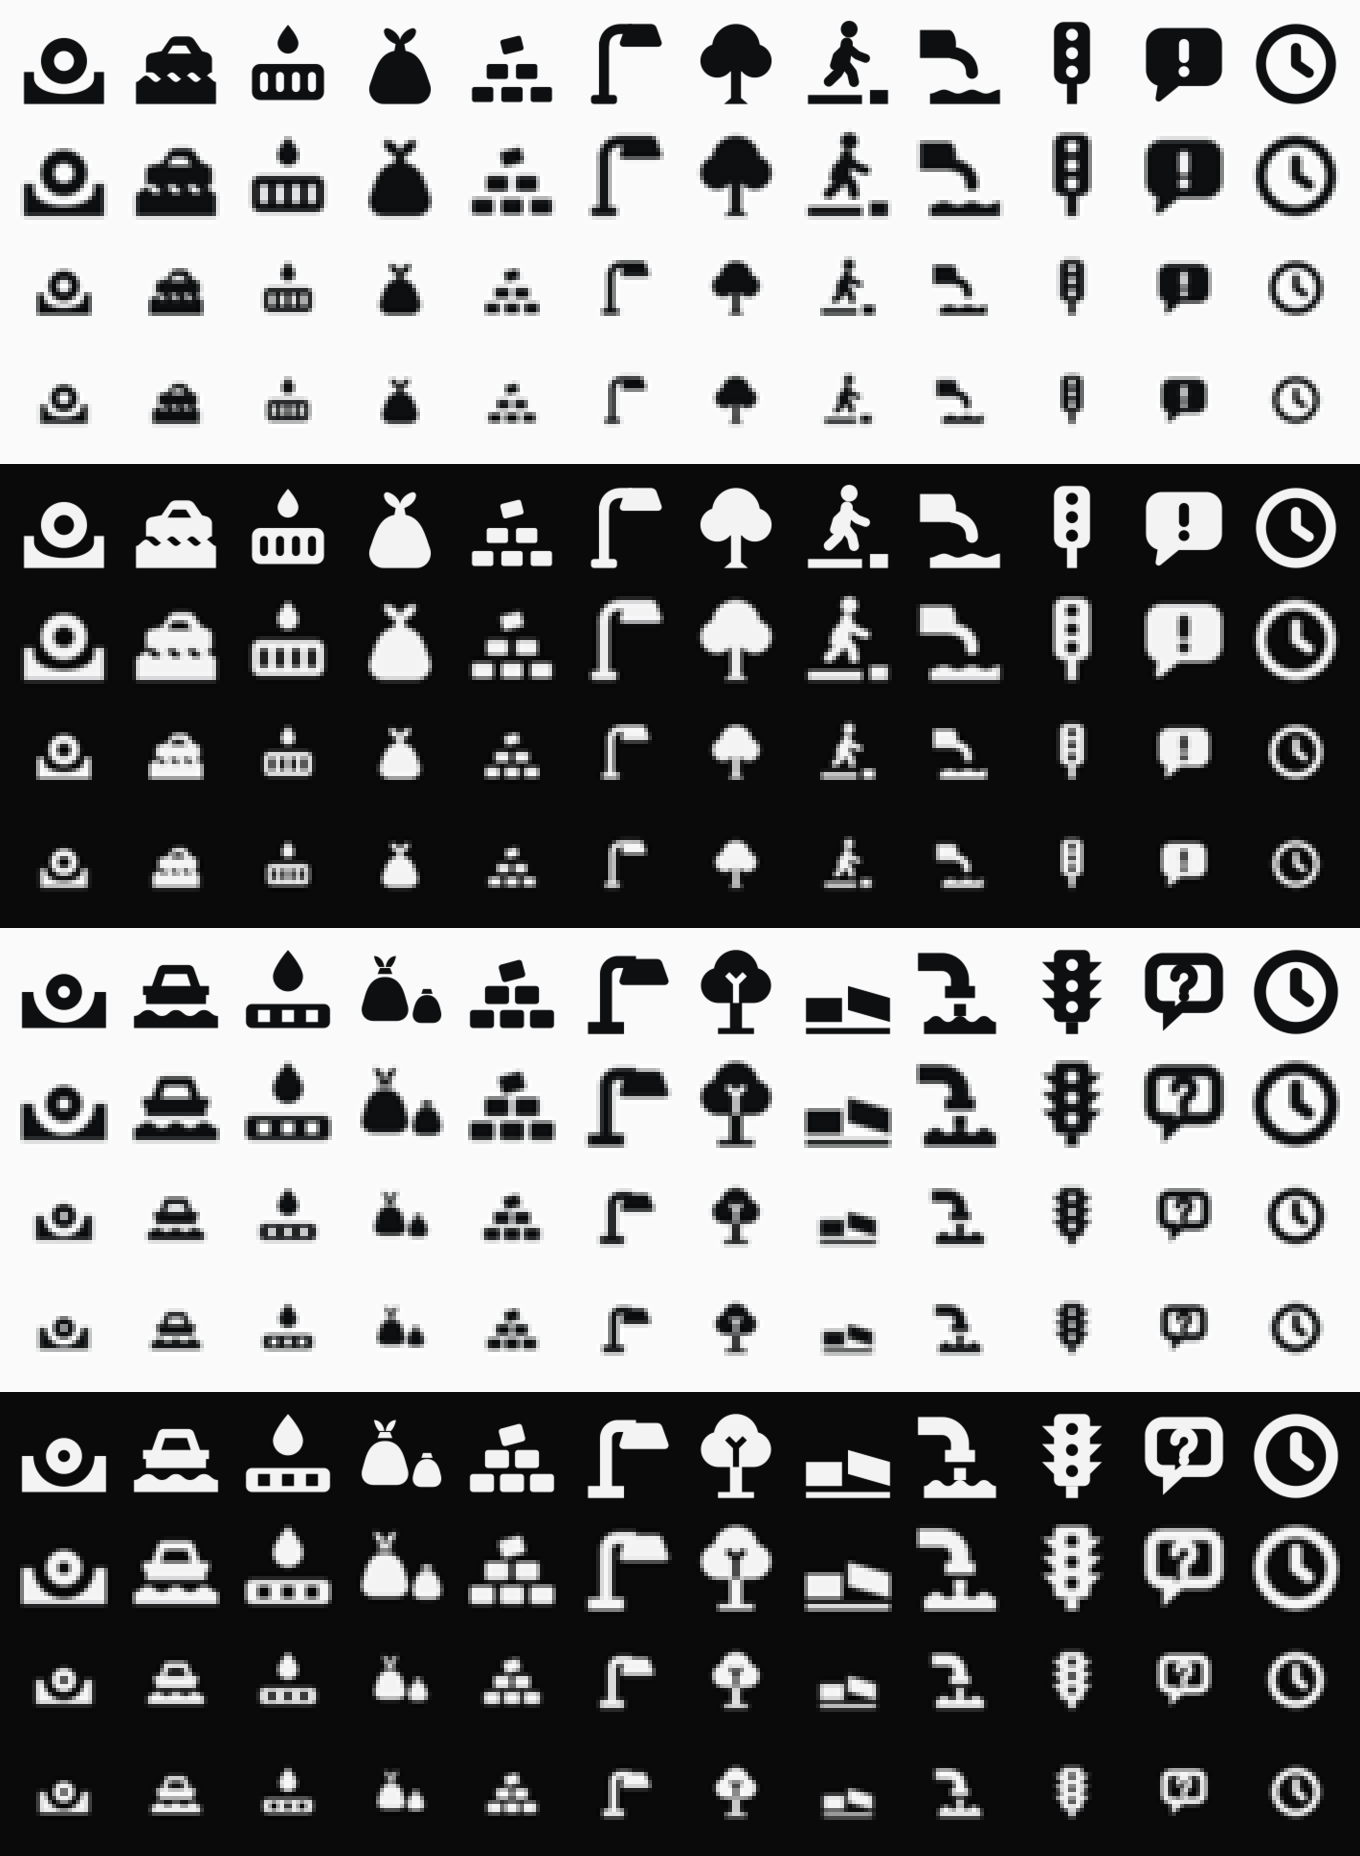
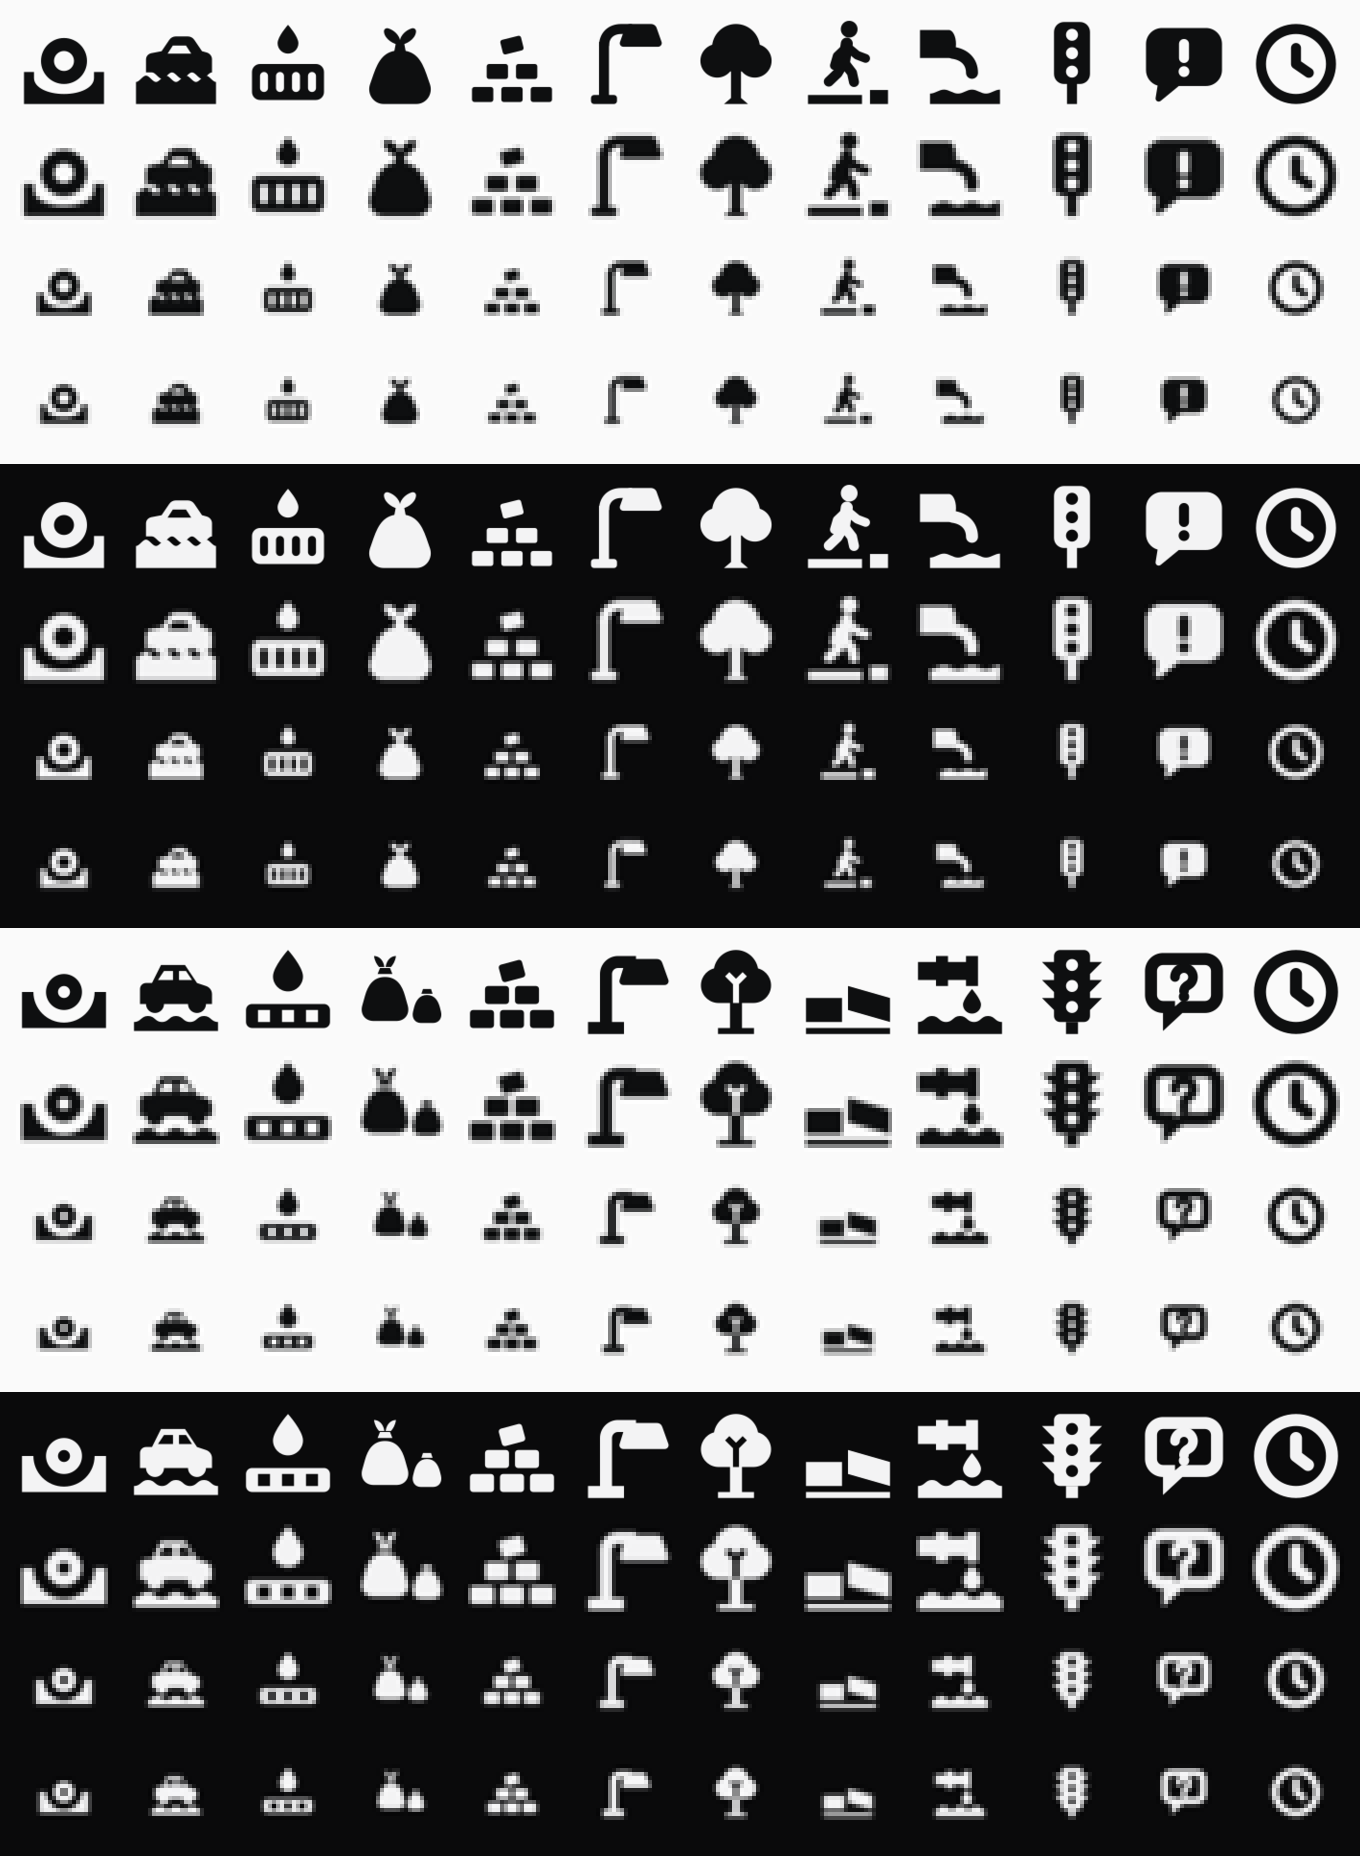
fix(web): the flooded street and the sewage pictograms, redrawn side on
The founder found both jangled:
- Alaga is now a car side on, water up to its wheels. It reads by its
  profile, windows and wheels; the front view read as a boat or a bus stop.
- Esgoto is now a pipe with its couplings dripping into a pool. A pouring
  stream always made an arrow; drops read as water.

The set's weight spread stays at 1.34x; the PDF's copy follows.

Changed region(s): [[0.6794, 0.5, 0.7412, 1.0], [0.0926, 0.5, 0.1544, 1.0]]

diff --git a/apps/web/src/components/Icons.tsx b/apps/web/src/components/Icons.tsx
@@ -16,14 +16,14 @@
  */
 
 const SYMBOLS = `<symbol id="c-buraco" viewBox="0 0 24 24"><path d="M1.5 12h2.85a7.65 7.65 0 0 0 15.3 0H22.5v9h-21z"/><path fill-rule="evenodd" d="M12 7.5a4.5 4.5 0 1 1 0 9 4.5 4.5 0 0 1 0-9zm0 3a1.5 1.5 0 1 0 0 3 1.5 1.5 0 0 0 0-3z"/></symbol>
-<symbol id="c-alaga" viewBox="0 0 24 24"><path fill-rule="evenodd" d="M8.9 5.25h6.2c.65 0 1.2.4 1.4 1L18 10.5h2.25v2.25H19.5V15h-15v-2.25h-.75V10.5H6l1.5-4.25c.2-.6.75-1 1.4-1zm.35 2.25l-.95 3h7.4l-.95-3z"/><path d="M1.5 18c1.75 0 1.75-1.5 3.5-1.5s1.75 1.5 3.5 1.5 1.75-1.5 3.5-1.5 1.75 1.5 3.5 1.5 1.75-1.5 3.5-1.5 1.75 1.5 3.5 1.5v3h-21z"/></symbol>
+<symbol id="c-alaga" viewBox="0 0 24 24"><path fill-rule="evenodd" d="M8.25 5.25h6l3 4.5 2.25.75c.9.3 1.5 1.1 1.5 2.05V15h-1.5a2.25 2.25 0 0 1-4.5 0H9a2.25 2.25 0 0 1-4.5 0H3v-3.75c0-.85.7-1.5 1.5-1.5H6zm.75 1.5-1.5 2.25h3.75V6.75zm3.75 0V9h3.25l-1.5-2.25z"/><path d="M1.5 19.5c1.75 0 1.75-1.5 3.5-1.5s1.75 1.5 3.5 1.5 1.75-1.5 3.5-1.5 1.75 1.5 3.5 1.5 1.75-1.5 3.5-1.5 1.75 1.5 3.5 1.5v2.25h-21z"/></symbol>
 <symbol id="c-bocalobo" viewBox="0 0 24 24"><path d="M12 1.5s-3.75 4.2-3.75 6.6a3.75 3.75 0 0 0 7.5 0C15.75 5.7 12 1.5 12 1.5z"/><path fill-rule="evenodd" d="M3 15h18a1.5 1.5 0 0 1 1.5 1.5v3A1.5 1.5 0 0 1 21 21H3a1.5 1.5 0 0 1-1.5-1.5v-3A1.5 1.5 0 0 1 3 15zM4.5 16.5v3h3v-3zm6 0v3h3v-3zm6 0v3h3v-3z"/></symbol>
 <symbol id="c-lixo" viewBox="0 0 24 24"><path d="M8.25 8.25c3 0 4.3 2.2 5 4.7l.7 2.5c.55 2.1-.75 3.8-2.85 3.8H5.4c-2.1 0-3.4-1.7-2.85-3.8l.7-2.5c.7-2.5 2-4.7 5-4.7z"/><path d="M7 6h2.5l.6 1.5H6.4z"/><path d="M5.5 3c1.1 0 2.3.8 2.6 2.75H6.75C6.25 5.15 5.7 4.35 5.5 3zM11 3c-1.1 0-2.3.8-2.6 2.75h1.35c.5-.6 1.05-1.4 1.25-2.75z"/><path d="M18.75 12.75c1.9 0 2.75 1.4 3.2 3l.3 1.2c.35 1.5-.45 2.8-2 2.8H17.25c-1.55 0-2.35-1.3-2-2.8l.3-1.2c.45-1.6 1.3-3 3.2-3z"/><path d="M17.75 11.25h2l.4 1.2h-2.8z"/></symbol>
 <symbol id="c-entulho" viewBox="0 0 24 24"><rect x="1.5" y="16.5" width="6" height="4.5" rx=".75"/><rect x="9" y="16.5" width="6" height="4.5" rx=".75"/><rect x="16.5" y="16.5" width="6" height="4.5" rx=".75"/><rect x="5.25" y="10.5" width="6" height="4.5" rx=".75"/><rect x="12.75" y="10.5" width="6" height="4.5" rx=".75"/><rect x="9" y="4.5" width="6" height="4.5" rx=".75" transform="rotate(-15 12 6.75)"/></symbol>
 <symbol id="c-poste" viewBox="0 0 24 24"><path d="M6 21V7.5A4.5 4.5 0 0 1 10.5 3H15v3h-4.5A1.5 1.5 0 0 0 9 7.5V21z"/><path d="M3 19.5h9v3H3z"/><path d="M13.6 3.75h6.6c.7 0 1.2.4 1.4 1.05l1.5 4.2c.2.6-.25 1.25-.9 1.25H11.8c-.65 0-1.1-.65-.9-1.25l1.3-4.2c.2-.65.75-1.05 1.4-1.05z"/></symbol>
 <symbol id="c-arvore" viewBox="0 0 24 24"><path fill-rule="evenodd" d="M12 1.5a5.6 5.6 0 0 1 5.5 4.6 4.4 4.4 0 0 1-1.25 8.65H13.5V21h3v1.5h-9V21h3v-6.25H7.75A4.4 4.4 0 0 1 6.5 6.1 5.6 5.6 0 0 1 12 1.5zM11.25 10.06v4.69h1.5v-4.69l1.97-1.97-1.06-1.06L12 8.69l-1.66-1.66-1.06 1.06z"/></symbol>
 <symbol id="c-calcada" viewBox="0 0 24 24"><path d="M1.5 13.5h9v6h-9z"/><path d="M12 10.5l10.5 3v6L12 16.5z"/><path d="M1.5 21h21v1.5h-21z"/></symbol>
-<symbol id="c-esgoto" viewBox="0 0 24 24"><path d="M1.5 2.25h6a6.75 6.75 0 0 1 6.75 6.75v1.5h1.5v3H8.25v-3h1.5V9a2.25 2.25 0 0 0-2.25-2.25h-6z"/><path d="M10.5 15h3v3h-3z"/><path d="M3 19.5c1.5 0 1.5-1.5 3-1.5s1.5 1.5 3 1.5 1.5-1.5 3-1.5 1.5 1.5 3 1.5 1.5-1.5 3-1.5 1.5 1.5 3 1.5V22.5H3z"/></symbol>
+<symbol id="c-esgoto" viewBox="0 0 24 24"><path d="M1.5 4.5h4.5V3h3v1.5h4.5V3h3v7.5h-3V9H9v1.5H6V9H1.5z"/><path d="M15 11.25s-2.25 2.55-2.25 3.9a2.25 2.25 0 0 0 4.5 0c0-1.35-2.25-3.9-2.25-3.9z"/><path d="M1.5 19.5c1.75 0 1.75-1.5 3.5-1.5s1.75 1.5 3.5 1.5 1.75-1.5 3.5-1.5 1.75 1.5 3.5 1.5 1.75-1.5 3.5-1.5 1.75 1.5 3.5 1.5v3h-21z"/></symbol>
 <symbol id="c-sinal" viewBox="0 0 24 24"><path fill-rule="evenodd" d="M9 1.5h6A1.5 1.5 0 0 1 16.5 3v1.5h3l-3 3V9h3l-3 3v1.5h3l-3 3V18a1.5 1.5 0 0 1-1.5 1.5H9A1.5 1.5 0 0 1 7.5 18v-1.5l-3-3h3V12l-3-3h3V7.5l-3-3h3V3A1.5 1.5 0 0 1 9 1.5zM12 3.75a1.5 1.5 0 1 0 0 3 1.5 1.5 0 0 0 0-3zm0 5.25a1.5 1.5 0 1 0 0 3 1.5 1.5 0 0 0 0-3zm0 5.25a1.5 1.5 0 1 0 0 3 1.5 1.5 0 0 0 0-3z"/><path d="M10.5 19.5h3v3h-3z"/></symbol>
 <symbol id="c-questao" viewBox="0 0 24 24"><path fill-rule="evenodd" d="M6.75 2.25h10.5a4.5 4.5 0 0 1 4.5 4.5v6a4.5 4.5 0 0 1-4.5 4.5H11.6L6.75 21.75v-4.5a4.5 4.5 0 0 1-4.5-4.5v-6a4.5 4.5 0 0 1 4.5-4.5zm0 3a1.5 1.5 0 0 0-1.5 1.5v6a1.5 1.5 0 0 0 1.5 1.5h3v1.35l1.6-1.35h5.9a1.5 1.5 0 0 0 1.5-1.5v-6a1.5 1.5 0 0 0-1.5-1.5z"/><path d="M9.75 8.25a2.25 2.25 0 1 1 3.4 1.95c-.7.4-1.15.85-1.15 1.55" fill="none" stroke="currentColor" stroke-width="2.4" stroke-linecap="round" stroke-linejoin="round"/><circle cx="12" cy="13.15" r="1.3"/></symbol>
 <symbol id="i-clock" viewBox="0 0 24 24"><g fill="none" stroke="currentColor" stroke-width="3" stroke-linecap="round" stroke-linejoin="round"><circle cx="12" cy="12" r="9"/><path d="M12 7.5V12l3 2.25"/></g></symbol>`;

diff --git a/apps/digest/src/pdf/pictograms.ts b/apps/digest/src/pdf/pictograms.ts
@@ -7,7 +7,7 @@ export const PICTOGRAMS: Record<string, string> = {
   buraco:
     '<svg xmlns="http://www.w3.org/2000/svg" viewBox="0 0 24 24" fill="currentColor"><path d="M1.5 12h2.85a7.65 7.65 0 0 0 15.3 0H22.5v9h-21z"/><path fill-rule="evenodd" d="M12 7.5a4.5 4.5 0 1 1 0 9 4.5 4.5 0 0 1 0-9zm0 3a1.5 1.5 0 1 0 0 3 1.5 1.5 0 0 0 0-3z"/></svg>',
   alaga:
-    '<svg xmlns="http://www.w3.org/2000/svg" viewBox="0 0 24 24" fill="currentColor"><path fill-rule="evenodd" d="M8.9 5.25h6.2c.65 0 1.2.4 1.4 1L18 10.5h2.25v2.25H19.5V15h-15v-2.25h-.75V10.5H6l1.5-4.25c.2-.6.75-1 1.4-1zm.35 2.25l-.95 3h7.4l-.95-3z"/><path d="M1.5 18c1.75 0 1.75-1.5 3.5-1.5s1.75 1.5 3.5 1.5 1.75-1.5 3.5-1.5 1.75 1.5 3.5 1.5 1.75-1.5 3.5-1.5 1.75 1.5 3.5 1.5v3h-21z"/></svg>',
+    '<svg xmlns="http://www.w3.org/2000/svg" viewBox="0 0 24 24" fill="currentColor"><path fill-rule="evenodd" d="M8.25 5.25h6l3 4.5 2.25.75c.9.3 1.5 1.1 1.5 2.05V15h-1.5a2.25 2.25 0 0 1-4.5 0H9a2.25 2.25 0 0 1-4.5 0H3v-3.75c0-.85.7-1.5 1.5-1.5H6zm.75 1.5-1.5 2.25h3.75V6.75zm3.75 0V9h3.25l-1.5-2.25z"/><path d="M1.5 19.5c1.75 0 1.75-1.5 3.5-1.5s1.75 1.5 3.5 1.5 1.75-1.5 3.5-1.5 1.75 1.5 3.5 1.5 1.75-1.5 3.5-1.5 1.75 1.5 3.5 1.5v2.25h-21z"/></svg>',
   bocalobo:
     '<svg xmlns="http://www.w3.org/2000/svg" viewBox="0 0 24 24" fill="currentColor"><path d="M12 1.5s-3.75 4.2-3.75 6.6a3.75 3.75 0 0 0 7.5 0C15.75 5.7 12 1.5 12 1.5z"/><path fill-rule="evenodd" d="M3 15h18a1.5 1.5 0 0 1 1.5 1.5v3A1.5 1.5 0 0 1 21 21H3a1.5 1.5 0 0 1-1.5-1.5v-3A1.5 1.5 0 0 1 3 15zM4.5 16.5v3h3v-3zm6 0v3h3v-3zm6 0v3h3v-3z"/></svg>',
   lixo: '<svg xmlns="http://www.w3.org/2000/svg" viewBox="0 0 24 24" fill="currentColor"><path d="M8.25 8.25c3 0 4.3 2.2 5 4.7l.7 2.5c.55 2.1-.75 3.8-2.85 3.8H5.4c-2.1 0-3.4-1.7-2.85-3.8l.7-2.5c.7-2.5 2-4.7 5-4.7z"/><path d="M7 6h2.5l.6 1.5H6.4z"/><path d="M5.5 3c1.1 0 2.3.8 2.6 2.75H6.75C6.25 5.15 5.7 4.35 5.5 3zM11 3c-1.1 0-2.3.8-2.6 2.75h1.35c.5-.6 1.05-1.4 1.25-2.75z"/><path d="M18.75 12.75c1.9 0 2.75 1.4 3.2 3l.3 1.2c.35 1.5-.45 2.8-2 2.8H17.25c-1.55 0-2.35-1.3-2-2.8l.3-1.2c.45-1.6 1.3-3 3.2-3z"/><path d="M17.75 11.25h2l.4 1.2h-2.8z"/></svg>',
@@ -20,7 +20,7 @@ export const PICTOGRAMS: Record<string, string> = {
   calcada:
     '<svg xmlns="http://www.w3.org/2000/svg" viewBox="0 0 24 24" fill="currentColor"><path d="M1.5 13.5h9v6h-9z"/><path d="M12 10.5l10.5 3v6L12 16.5z"/><path d="M1.5 21h21v1.5h-21z"/></svg>',
   esgoto:
-    '<svg xmlns="http://www.w3.org/2000/svg" viewBox="0 0 24 24" fill="currentColor"><path d="M1.5 2.25h6a6.75 6.75 0 0 1 6.75 6.75v1.5h1.5v3H8.25v-3h1.5V9a2.25 2.25 0 0 0-2.25-2.25h-6z"/><path d="M10.5 15h3v3h-3z"/><path d="M3 19.5c1.5 0 1.5-1.5 3-1.5s1.5 1.5 3 1.5 1.5-1.5 3-1.5 1.5 1.5 3 1.5 1.5-1.5 3-1.5 1.5 1.5 3 1.5V22.5H3z"/></svg>',
+    '<svg xmlns="http://www.w3.org/2000/svg" viewBox="0 0 24 24" fill="currentColor"><path d="M1.5 4.5h4.5V3h3v1.5h4.5V3h3v7.5h-3V9H9v1.5H6V9H1.5z"/><path d="M15 11.25s-2.25 2.55-2.25 3.9a2.25 2.25 0 0 0 4.5 0c0-1.35-2.25-3.9-2.25-3.9z"/><path d="M1.5 19.5c1.75 0 1.75-1.5 3.5-1.5s1.75 1.5 3.5 1.5 1.75-1.5 3.5-1.5 1.75 1.5 3.5 1.5 1.75-1.5 3.5-1.5 1.75 1.5 3.5 1.5v3h-21z"/></svg>',
   sinal:
     '<svg xmlns="http://www.w3.org/2000/svg" viewBox="0 0 24 24" fill="currentColor"><path fill-rule="evenodd" d="M9 1.5h6A1.5 1.5 0 0 1 16.5 3v1.5h3l-3 3V9h3l-3 3v1.5h3l-3 3V18a1.5 1.5 0 0 1-1.5 1.5H9A1.5 1.5 0 0 1 7.5 18v-1.5l-3-3h3V12l-3-3h3V7.5l-3-3h3V3A1.5 1.5 0 0 1 9 1.5zM12 3.75a1.5 1.5 0 1 0 0 3 1.5 1.5 0 0 0 0-3zm0 5.25a1.5 1.5 0 1 0 0 3 1.5 1.5 0 0 0 0-3zm0 5.25a1.5 1.5 0 1 0 0 3 1.5 1.5 0 0 0 0-3z"/><path d="M10.5 19.5h3v3h-3z"/></svg>',
   questao:

diff --git a/research/pictograms/README.md b/research/pictograms/README.md
@@ -11,6 +11,7 @@ Measured with `tools/icon-lab.ts` (ink as a share of the 24-unit canvas):
   - Buraco: a ring in a tray, read as a donut.
   - Calçada: a walker drawn in strokes.
   - Esgoto: read as an arrow.
+- **Founder review (2026-10-26):** the front-view car and the elbow pipe were "jangled". Side views fixed both: a car is read by its profile and wheels, a pipe by its couplings, and water by drops rather than a jet.
   - Questão: an exclamation bubble, read as an alarm, against DESIGN.md's own No-Alarm Rule.
 - **Sizes:** the app drew them at 13, 14, 18, 28 and 36 px, none crisp.
 
@@ -58,14 +59,14 @@ Sources: Material's keylines, GitHub Primer, Lucide, Tabler, Volue and Fluent; s
 | Pictogram | Drawing | Ink |
 |---|---|---|
 | buraco | a wheel down in a hole in the road, in section (after CONTRAN A-19) | 26.7% |
-| alaga | a car seen from the front, water up to its doors | 31.8% |
+| alaga | a car side on, water up to its wheels (the front view read as a boat or a bus stop) | 34.1% |
 | bocalobo | a drain grate from above, water standing over it | 25.9% |
 | lixo | two tied bags, a big and a small one, left out | 27.6% |
 | entulho | a pile of bricks, three, two, one | 27.6% |
 | poste | a street light, side on: pole, arm, lamp head | 26.7% |
 | arvore | one canopy on a trunk that forks up into it, as a cut-out | 33.1% |
 | calcada | the pavement in section, one slab heaved out of line | 25.8% |
-| esgoto | a pipe bending down to its mouth, pouring into a pool | 28.6% |
+| esgoto | a pipe with its couplings, dripping into a pool (a pouring stream always read as an arrow) | 31.7% |
 | sinal | a traffic light with its visors | 30.4% |
 | questao | a speech bubble with a question mark | 34.6% |
 

diff --git a/DESIGN.md b/DESIGN.md
@@ -431,7 +431,7 @@ Reporting is quiet until needed. A Slate flag button sits beside each update and
 
 One pictogram per category, drawn to the public-information norm: ISO 7001's construction in the public-domain AIGA/DOT drawing style. Where a Brazilian traffic sign (CONTRAN) already shows the subject, the pictogram takes that subject (the road dip, the traffic light), but never the sign's yellow diamond or red ring: nothing may read as an alert, so there is no exclamation mark, ring or slash either.
 
-- **Drawing:** a solid single-ink silhouette, front or side view or a section, never perspective. One subject and at most one qualifier: a wheel down in the hole, a car up to its doors in water, two tied bags left out, a pipe pouring into a pool.
+- **Drawing:** a solid single-ink silhouette, front or side view or a section, never perspective. One subject and at most one qualifier: a wheel down in the hole, a car side on up to its wheels in water, two tied bags left out, a pipe dripping into a pool.
 - **Grid:** 24 units, live area 1.5 to 22.5, every edge on a 1.5-unit lattice. Bars are 3 units (1.5 only as a hairline between masses), gaps and cut-outs at least 1.5 and usually 3, angles 0°, 45° and 90°, at most three islands.
 - **Weight:** every glyph's ink within the set's band, max/min 1.4 or less, measured with `research/pictograms/tools/icon-lab.ts`.
 - **Sizes:** 16, 24, 32 and 48 px only, where the lattice lands on whole pixels; `<Icon size>` accepts nothing else. Meta lines, chips and the command palette use 16, form tiles 24, list thumbnails and empty tiles 32, the empty photo area 48.

diff --git a/research/DECISIONS.md b/research/DECISIONS.md
@@ -424,9 +424,9 @@ The founder delegated these ("you decide the best course"). They were settled af
   - Bars sit on a 1.5-unit lattice, crisp at 16, 24, 32 and 48 px, and the app now uses only those sizes.
   - The weight spread across the set went from 2.2× to 1.34×.
   - Buraco becomes a wheel down in a hole in the road.
-  - Alaga becomes a car seen from the front in water.
+  - Alaga becomes a car side on, water up to its wheels. A front view, tried first, read as a boat, and the founder rejected it.
   - Calçada becomes a heaved slab, without the walker.
-  - Esgoto becomes a pipe pouring into a pool.
+  - Esgoto becomes a pipe with its couplings, dripping into a pool. A pouring stream always read as an arrow, and the founder rejected it.
   - Questão trades its "!" for a "?", so nothing reads as an alarm.
 - **Still to do:** a small comprehension test with Canoas residents at 14 px (ISO 9186-1).
 
